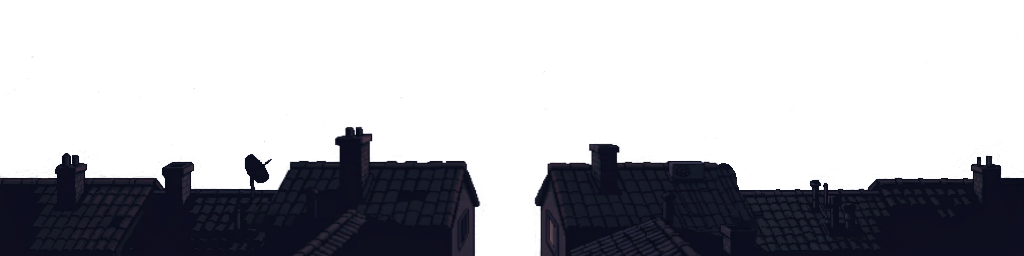
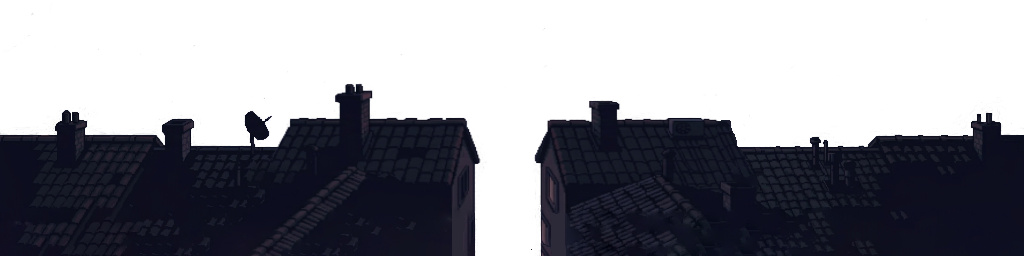
Fix cat falling through platforms and update platform sequence
Implement `this._group.refresh()` to update Phaser's broadphase collision tree after repositioning static bodies, and modify the platform tile sequence logic to include random repetitions of landing, left, middle, and right tiles.

Replit-Commit-Author: Agent
Replit-Commit-Session-Id: de744c27-acc2-4534-b719-d1a33aa33a2b
Replit-Commit-Checkpoint-Type: full_checkpoint
Replit-Commit-Event-Id: 1c3d4fa7-199a-4396-b47f-6140340544e7
Replit-Commit-Screenshot-Url: https://storage.googleapis.com/screenshot-production-us-central1/801cf0d9-e77a-4a16-8aba-93f805c65ec3/de744c27-acc2-4534-b719-d1a33aa33a2b/UfzD0vE
Replit-Helium-Checkpoint-Created: true

diff --git a/artifacts/phaser-game/src/systems/PlatformManager.js b/artifacts/phaser-game/src/systems/PlatformManager.js
@@ -31,6 +31,11 @@ const SURFACE_Y  = PLATFORM_Y + Math.round(CROP_TOP * TILE_SCALE); // 195
 // is sized to the segment's full width.  Every frame body.reset(screenX, y)
 // repositions it in the broadphase tree to follow the scroll.
 //
+// IMPORTANT: After moving all static bodies, this._group.refresh() MUST be
+// called once per frame to flush the updated positions into the broadphase
+// spatial hash.  Without this call the collision tree retains stale positions
+// and the cat falls through the (visually correct) platforms.
+//
 // We do NOT attach bodies to the visual tile sprites — setCrop+setScale in
 // Phaser 3.90 corrupts refreshBody(), so visuals and physics are kept separate.
 // ---------------------------------------------------------------------------
@@ -59,10 +64,11 @@ const GROUND_DEPTH = 9; // drawn just below visual tiles (depth 10)
 //                        Safe: max jumpable ≈ 103 px (air time 0.689 s).
 // ---------------------------------------------------------------------------
 const SCROLL_SPEED = 150; // px / s — keep in sync with BackgroundManager
-const SPAWN_AHEAD  = 900; // px ahead of right canvas edge to keep spawned
+const SPAWN_AHEAD  = 1200; // px ahead of right canvas edge to keep spawned
 
-const MID_MIN = 0; // minimum middle tiles per segment (0 = left+right only)
-const MID_MAX = 2; // maximum middle tiles per segment
+// Tile repetition per type: each tile kind repeats 1–4 times per segment.
+const REPEAT_MIN = 1;
+const REPEAT_MAX = 4;
 
 const GAP_CHANCE = 0.40; // probability of a gap before each new segment
 const GAP_MIN    = 80;   // minimum gap width — forces a real fall if missed
@@ -133,7 +139,7 @@ export class PlatformManager {
     for (const seg of this._segments) {
       const screenX = seg.worldX - scrollPx;
 
-      // Reposition physics body in the broadphase tree each frame.
+      // Move the static physics sprite and body to the new screen position.
       seg.ground.x = screenX;
       seg.ground.body.reset(screenX, SURFACE_Y);
 
@@ -142,6 +148,11 @@ export class PlatformManager {
         t.sprite.x = screenX + t.localX;
       }
     }
+
+    // ── Flush all moved static bodies into the broadphase tree ─────────────
+    // Without this call the spatial hash keeps stale positions, causing the
+    // cat to fall through platforms that look correct on screen.
+    this._group.refresh();
 
     // ── Recycle segments scrolled fully off the left edge ──────────────────
     while (this._segments.length > 0) {
@@ -171,17 +182,27 @@ export class PlatformManager {
     if (!isSafe && Math.random() < GAP_CHANCE) {
       const gapW = randInt(GAP_MIN, GAP_MAX);
       this._nextWorldX += gapW; // advance cursor past the gap
-      withLanding = true;       // the segment opens with a landing tile
+      withLanding = true;       // the segment opens with landing tiles
     }
 
     // ── Decide tile sequence ───────────────────────────────────────────────
+    // Order: roof_landing (1–4×, only after gap) → roof_left (1–4×)
+    //        → roof_middle (1–4×) → roof_right (1–4×)
     const tileKeys = [];
-    if (withLanding) tileKeys.push("roof_landing");
-    tileKeys.push("roof_left");
-    for (let i = 0, n = randInt(MID_MIN, MID_MAX); i < n; i++) {
-      tileKeys.push("roof_middle");
+
+    if (withLanding) {
+      const n = randInt(REPEAT_MIN, REPEAT_MAX);
+      for (let i = 0; i < n; i++) tileKeys.push("roof_landing");
     }
-    tileKeys.push("roof_right");
+
+    const leftN = randInt(REPEAT_MIN, REPEAT_MAX);
+    for (let i = 0; i < leftN; i++) tileKeys.push("roof_left");
+
+    const midN = randInt(REPEAT_MIN, REPEAT_MAX);
+    for (let i = 0; i < midN; i++) tileKeys.push("roof_middle");
+
+    const rightN = randInt(REPEAT_MIN, REPEAT_MAX);
+    for (let i = 0; i < rightN; i++) tileKeys.push("roof_right");
 
     const segWorldX = this._nextWorldX;
     const segWidth  = tileKeys.length * TILE_W;
@@ -202,9 +223,6 @@ export class PlatformManager {
     }
 
     // ── Create invisible physics body for this segment ─────────────────────
-    // Origin (0,0) → displayOriginX/Y = 0, so body.reset(x,y) = sprite.x/y.
-    // We pin explicitly with body.reset() after group.add() in case the group
-    // createCallback overwrites the position.
     const screenX = segWorldX - scrollPx;
     const ground  = this.scene.physics.add.staticImage(
       screenX, SURFACE_Y, "__ground_px"
@@ -213,8 +231,8 @@ export class PlatformManager {
     ground.setAlpha(0);
     ground.setDepth(GROUND_DEPTH);
     ground.body.setSize(segWidth, 8); // 8 px tall — tolerant of 1-frame timing gaps
-    this._group.add(ground);          // createCallback resets position to sprite.x/y ✓
-    ground.body.reset(screenX, SURFACE_Y); // re-pin after createCallback
+    this._group.add(ground);
+    ground.body.reset(screenX, SURFACE_Y);
 
     // ── Register segment ───────────────────────────────────────────────────
     this._segments.push({ worldX: segWorldX, width: segWidth, ground, tiles });

diff --git a/artifacts/phaser-game/src/systems/BackgroundManager.js b/artifacts/phaser-game/src/systems/BackgroundManager.js
@@ -168,7 +168,7 @@ export class BackgroundManager {
       .setDepth(4);
 
     // 6. roofs_back — foreground rooftop layer.
-    const ROOFS_SHIFT_Y = -25; // vertical offset added on top of layerY
+    const ROOFS_SHIFT_Y = 10; // vertical offset added on top of layerY
 
     this._roofsBack0 = this.scene.add
       .image(0, layerY + ROOFS_SHIFT_Y, "roofs_back")
